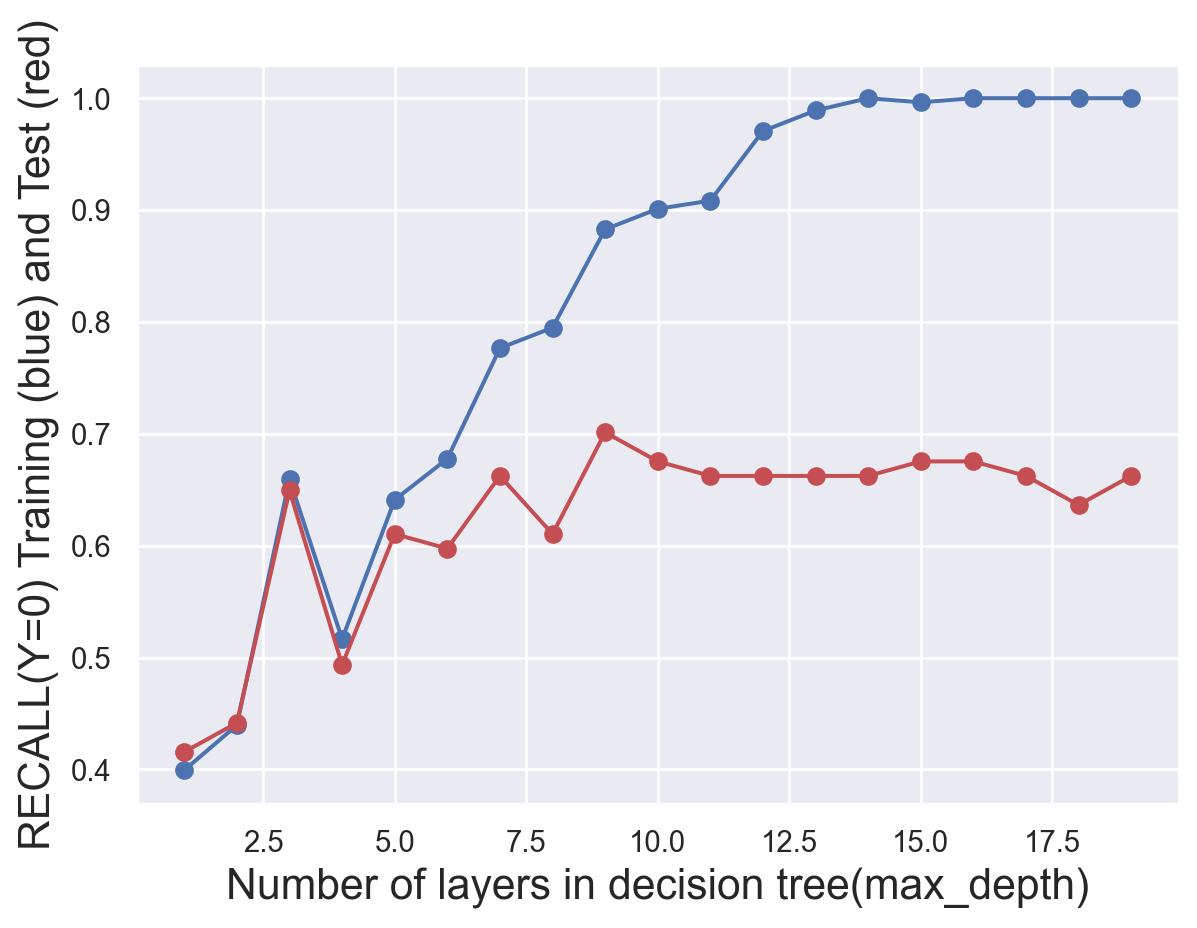
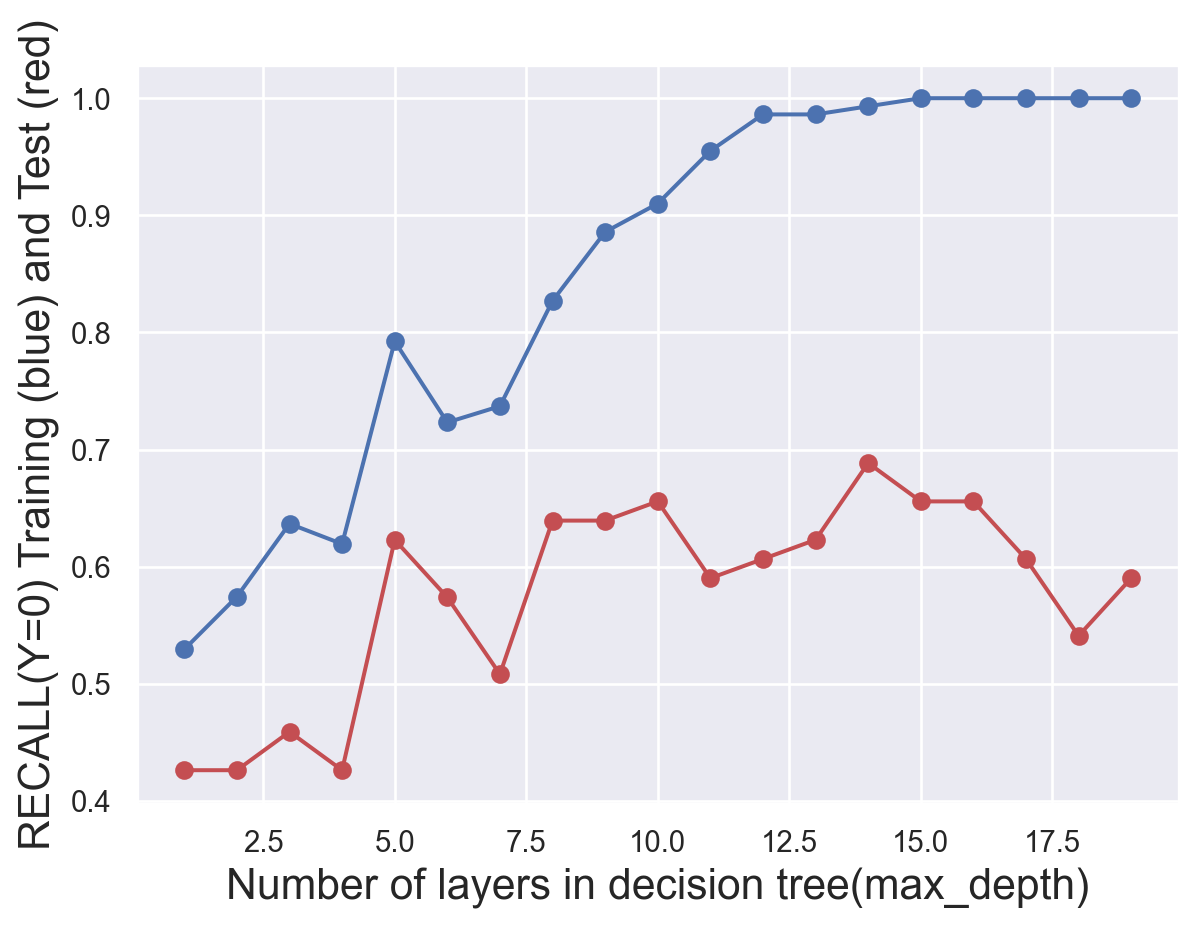
GITHUB-UPLOAD:DATE-2022-12-04-TIME-19-55-02

diff --git a/codes/05-decision-tree/_site/decision_tree.html b/codes/05-decision-tree/_site/decision_tree.html
@@ -126,9 +126,9 @@ code span.wa { color: #60a0b0; font-weight: bold; font-style: italic; } /* Warni
 
     
 
-    <title>Yifan Bian 501 Project Data Gathering</title>
+    <title>DT_header</title>
     <style>
-      .child-top { background-image: url('https://www.georgetown.edu/wp-content/uploads/2019/09/20150324-Campus_0006-2-2000x1125-c--dark-default.jpg');height: 230px;margin: 0%;display: flex;flex-direction: row;justify-content:space-between;border-top: grey 3px solid;} 
+      .child-top { background-image: url('https://www.georgetown.edu/wp-content/uploads/2019/09/20150324-Campus_0006-2-2000x1125-c--dark-default.jpg');padding-top:10px;padding-right: 18px;height: 240px;margin: 0%;display: flex;flex-direction: row;justify-content:space-between;border-top: grey 3px solid;} 
       .blank{height:80px}
       .position{display:flex; flex-direction: row;justify-content:center;}
       .bayes_box1{display:flex; flex-direction: row;justify-content:center;}
@@ -156,20 +156,20 @@ code span.wa { color: #60a0b0; font-weight: bold; font-style: italic; } /* Warni
     
     <div class="subtitle">
       <div style="height:60px"></div>
-      <p style="font-size:70px ;color:#d6d3c9;padding-left: 80px;border-right: 6px solid #d6d3c9 ;padding-right: 30px;">
+      <p style="font-size:70px ;color:#d6d3c9;padding-left: 80px;border-right: 6px solid #d6d3c9 ;padding-right: 30px;margin-top: -13px;">
         Decision Tree
       </p>
     </div>
 
    <div class="last-word" style="padding-right:80px ;padding-top: 10px;">
-      <h1 style="color: #d6d3c9;text-align:right;">
-        Anly-501 Project 
+      <h1 style="padding-left: 5px;color: #d6d3c9;text-align:right;font-size: 32px;font-family: 'Times New Roman', Times, serif;font-weight: bold;">
+        Rumor &amp; Susceptible User Detection
       </h1>
-      <p style="color:grey;margin-top: -15px;text-align:right;">
-        A full data science life cycle.
+      <p style="color:grey;margin-top: -15px;text-align:right;font-size: 15px;margin-bottom: 10px;">
+        Georgetown University DSAN Anly-501 Project 
       </p>
-      <p style="color:whitesmoke; font-weight:200; font-size: 16px;text-align:right">
-        © 2022 Yifan Bian 501 Project, powered by GU domain
+      <p style="color:whitesmoke; font-weight:200; font-size: 16px;text-align:right;font-style: oblique;margin-top: 0px;">
+        A full data science life cycle
        </p>
 
     </div>
@@ -200,7 +200,7 @@ code span.wa { color: #60a0b0; font-weight: bold; font-style: italic; } /* Warni
           <div class="collapse navbar-collapse" id="navbarCollapse">
             <ul class="navbar-nav navbar-nav-scroll me-auto">
   <li class="nav-item">
-    <a class="nav-link" href="https://gpa4.georgetown.domains/501-project-website/main_page.html">Home</a>
+    <a class="nav-link" href="https://gpa4.georgetown.domains/501-project-website/about.html">About</a>
   </li>  
   <li class="nav-item">
     <a class="nav-link" href="https://github.com/anly501/anly-501-project-FlynnFlag/tree/main/codes">Code</a>
@@ -233,10 +233,10 @@ code span.wa { color: #60a0b0; font-weight: bold; font-style: italic; } /* Warni
     <a class="nav-link" href="https://flynnflag.quarto.pub/07-clustering/clustering.html">Cluster</a>
   </li>  
   <li class="nav-item">
-    <a class="nav-link active" href="./decision_tree.html" aria-current="page">ARM and Networking</a>
+    <a class="nav-link" href="https://flynnflag.quarto.pub/08-arm/ARM.html">ARM and Networking</a>
   </li>  
   <li class="nav-item">
-    <a class="nav-link" href="./decision_tree.html">Conclusion</a>
+    <a class="nav-link" href="https://gpa4.georgetown.domains/501-project-website/conclusion.html">Conclusion</a>
   </li>  
 </ul>
               <div id="quarto-search" class="" title="Search"></div>
@@ -253,13 +253,18 @@ code span.wa { color: #60a0b0; font-weight: bold; font-style: italic; } /* Warni
     <h2 id="toc-title">On this page</h2>
    
   <ul>
-  <li><a href="#method" id="toc-method" class="nav-link active" data-scroll-target="#method">Method</a></li>
+  <li><a href="#introduction" id="toc-introduction" class="nav-link active" data-scroll-target="#introduction">Introduction</a></li>
+  <li><a href="#theory" id="toc-theory" class="nav-link" data-scroll-target="#theory">Theory</a></li>
+  <li><a href="#method" id="toc-method" class="nav-link" data-scroll-target="#method">Method</a>
+  <ul class="collapse">
   <li><a href="#class-distribution" id="toc-class-distribution" class="nav-link" data-scroll-target="#class-distribution">Class Distribution</a></li>
   <li><a href="#baseline-model-for-comparsion" id="toc-baseline-model-for-comparsion" class="nav-link" data-scroll-target="#baseline-model-for-comparsion">Baseline Model for Comparsion</a></li>
-  <li><a href="#feature-selection" id="toc-feature-selection" class="nav-link" data-scroll-target="#feature-selection">Feature Selection</a></li>
+  <li><a href="#data-selection" id="toc-data-selection" class="nav-link" data-scroll-target="#data-selection">Data Selection</a></li>
   <li><a href="#model-tuning" id="toc-model-tuning" class="nav-link" data-scroll-target="#model-tuning">Model tuning</a></li>
+  </ul></li>
   <li><a href="#final-results" id="toc-final-results" class="nav-link" data-scroll-target="#final-results">Final Results</a></li>
   <li><a href="#conclusion" id="toc-conclusion" class="nav-link" data-scroll-target="#conclusion">Conclusion</a></li>
+  <li><a href="#reference" id="toc-reference" class="nav-link" data-scroll-target="#reference">Reference</a></li>
   </ul>
 </nav>
     </div>
@@ -268,13 +273,13 @@ code span.wa { color: #60a0b0; font-weight: bold; font-style: italic; } /* Warni
 
 
 
-<section id="method" class="level2">
-<h2 class="anchored" data-anchor-id="method">Method</h2>
-In this tab, a classification method called <strong><em>Decision Tree</em></strong> is used. This method continuouslly asks “whether or not questions” to the input so that it can gradually divides it into different parts. <br><br> <img src="tree.png" class="img-fluid">
-<center>
-<em>(Example of the process of decision tree)</em> <a href="https://www.ibm.com/topics/decision-trees"><code>reference</code></a>
-</center>
-<p><br><br> But how to decide what to ask? The trick here is to use mathematical formulas to quantify one of the following metrics to find the question.</p>
+<section id="introduction" class="level2">
+<h2 class="anchored" data-anchor-id="introduction">Introduction</h2>
+<p>In this tab, a classification method called <strong><em>Decision Tree</em></strong> is used to build <strong><em>Susceptible User Detection</em></strong>. We will use “cleaned_followers.csv”.</p>
+</section>
+<section id="theory" class="level2">
+<h2 class="anchored" data-anchor-id="theory">Theory</h2>
+<p>Decision Tree continuouslly asks “whether or not questions” to the input so that it can gradually divides it into different parts. <br><br> <img src="tree.png" class="img-fluid"> <br><br> But how to decide what to ask? The trick here is to use mathematical formulas to quantify one of the following metrics to find the question.</p>
 <blockquote class="blockquote">
 <ul>
 <li>The extent to which we gain new information from new answers (by calculating entropy)</li>
@@ -282,16 +287,13 @@ In this tab, a classification method called <strong><em>Decision Tree</em></stro
 </ul>
 </blockquote>
 <p>By using this method, we can easily find how important an attribute is, and understand what makes our research target so different.</p>
-<p>Now we are going to apply this method to our data to achieve one of our goals:</p>
-<hr>
-<center>
-<strong>Distinguish users who are more likely to be influenced by rumor with other users.</strong>
-</center>
-<hr>
 <p><br><br></p>
 </section>
-<section id="class-distribution" class="level2">
-<h2 class="anchored" data-anchor-id="class-distribution">Class Distribution</h2>
+<section id="method" class="level2">
+<h2 class="anchored" data-anchor-id="method">Method</h2>
+<p>This part will show the workflow of training the optimal models with SVM.</p>
+<section id="class-distribution" class="level3">
+<h3 class="anchored" data-anchor-id="class-distribution">Class Distribution</h3>
 <div class="cell" data-execution_count="1">
 <details>
 <summary>Code</summary>
@@ -318,7 +320,7 @@ In this tab, a classification method called <strong><em>Decision Tree</em></stro
 <span id="cb1-21"><a href="#cb1-21" aria-hidden="true" tabindex="-1"></a><span class="co">#show the data</span></span>
 <span id="cb1-22"><a href="#cb1-22" aria-hidden="true" tabindex="-1"></a>df.head()</span></code><button title="Copy to Clipboard" class="code-copy-button"><i class="bi"></i></button></pre></div>
 </details>
-<div class="cell-output cell-output-display" data-execution_count="51">
+<div class="cell-output cell-output-display" data-execution_count="1">
 
 <div>
 
@@ -415,8 +417,8 @@ In this tab, a classification method called <strong><em>Decision Tree</em></stro
 <p>The count of two classes are the same, 350 for each. This is dsigned when gathering the data(“details of followers”). With this kind of data, we can avoid problems brought from imbalanced data sets.</p>
 <p><br><br></p>
 </section>
-<section id="baseline-model-for-comparsion" class="level2">
-<h2 class="anchored" data-anchor-id="baseline-model-for-comparsion">Baseline Model for Comparsion</h2>
+<section id="baseline-model-for-comparsion" class="level3">
+<h3 class="anchored" data-anchor-id="baseline-model-for-comparsion">Baseline Model for Comparsion</h3>
 <div class="cell" data-execution_count="2">
 <details>
 <summary>Code</summary>
@@ -434,14 +436,14 @@ In this tab, a classification method called <strong><em>Decision Tree</em></stro
 </details>
 <div class="cell-output cell-output-stdout">
 <pre><code>-----RANDOM CLASSIFIER-----
-accuracy 0.5114285714285715
-percision, recall, fscore, (array([0.51212121, 0.51081081]), array([0.48285714, 0.54      ]), array([0.49705882, 0.525     ]), array([350, 350], dtype=int64))</code></pre>
+accuracy 0.5
+percision, recall, fscore, (array([0.5, 0.5]), array([0.50857143, 0.49142857]), array([0.50424929, 0.49567723]), array([350, 350], dtype=int64))</code></pre>
 </div>
 </div>
 <p><br><br> What a baseline model here did is guess the class. And we can see that every metric is around 50%. So if a model perform than this baseline, than we can say it do make some sense.</p>
 </section>
-<section id="feature-selection" class="level2">
-<h2 class="anchored" data-anchor-id="feature-selection">Feature Selection</h2>
+<section id="data-selection" class="level3">
+<h3 class="anchored" data-anchor-id="data-selection">Data Selection</h3>
 <div class="cell" data-execution_count="3">
 <details>
 <summary>Code</summary>
@@ -452,7 +454,7 @@ percision, recall, fscore, (array([0.51212121, 0.51081081]), array([0.48285714, 
 <span id="cb4-5"><a href="#cb4-5" aria-hidden="true" tabindex="-1"></a><span class="co">#</span></span>
 <span id="cb4-6"><a href="#cb4-6" aria-hidden="true" tabindex="-1"></a>X<span class="op">=</span>df.drop(columns<span class="op">=</span>[<span class="st">"label"</span>],axis<span class="op">=</span><span class="dv">1</span>)</span>
 <span id="cb4-7"><a href="#cb4-7" aria-hidden="true" tabindex="-1"></a>y<span class="op">=</span>df[<span class="st">"label"</span>]</span>
-<span id="cb4-8"><a href="#cb4-8" aria-hidden="true" tabindex="-1"></a>x_train,x_test,y_train,y_test<span class="op">=</span>train_test_split(X,y,test_size<span class="op">=</span><span class="fl">0.2</span>)</span></code><button title="Copy to Clipboard" class="code-copy-button"><i class="bi"></i></button></pre></div>
+<span id="cb4-8"><a href="#cb4-8" aria-hidden="true" tabindex="-1"></a>x_train,x_test,y_train,y_test<span class="op">=</span>train_test_split(X,y,test_size<span class="op">=</span><span class="fl">0.2</span>,random_state<span class="op">=</span><span class="dv">42</span>)</span></code><button title="Copy to Clipboard" class="code-copy-button"><i class="bi"></i></button></pre></div>
 </details>
 </div>
 <table class="table">
@@ -506,8 +508,8 @@ percision, recall, fscore, (array([0.51212121, 0.51081081]), array([0.48285714, 
 </center>
 <p>8 features was selected to train the model. These features are all attributes that are allowed to get and reflect the character of accounts. With these attributes, we have the biggest possibility to find the differences. Note that “user_id” is also selected because it reflect how long an account was created. The bigger an user id is, the newer the account is. <br><br></p>
 </section>
-<section id="model-tuning" class="level2">
-<h2 class="anchored" data-anchor-id="model-tuning">Model tuning</h2>
+<section id="model-tuning" class="level3">
+<h3 class="anchored" data-anchor-id="model-tuning">Model tuning</h3>
 <div class="cell" data-execution_count="4">
 <details>
 <summary>Code</summary>
@@ -539,7 +541,7 @@ percision, recall, fscore, (array([0.51212121, 0.51081081]), array([0.48285714, 
 <span id="cb5-26"><a href="#cb5-26" aria-hidden="true" tabindex="-1"></a>metric_plot(<span class="st">"RECALL(Y=1)"</span>,test_results[:,<span class="dv">0</span>],train_results[:,<span class="dv">3</span>],test_results[:,<span class="dv">3</span>])</span></code><button title="Copy to Clipboard" class="code-copy-button"><i class="bi"></i></button></pre></div>
 </details>
 <div class="cell-output cell-output-display">
-<p><img src="decision_tree_files/figure-html/cell-5-output-1.png" width="607" height="482"></p>
+<p><img src="decision_tree_files/figure-html/cell-5-output-1.png" width="599" height="482"></p>
 </div>
 <div class="cell-output cell-output-display">
 <p><img src="decision_tree_files/figure-html/cell-5-output-2.png" width="599" height="464"></p>
@@ -549,6 +551,7 @@ percision, recall, fscore, (array([0.51212121, 0.51081081]), array([0.48285714, 
 </div>
 </div>
 <p><br><br> To find the most suitable number of layers, several plots was produced. We finally find that we should set max_depth as 4.</p>
+</section>
 </section>
 <section id="final-results" class="level2">
 <h2 class="anchored" data-anchor-id="final-results">Final Results</h2>
@@ -595,11 +598,11 @@ percision, recall, fscore, (array([0.51212121, 0.51081081]), array([0.48285714, 
 <span id="cb6-38"><a href="#cb6-38" aria-hidden="true" tabindex="-1"></a>plot_tree(model,x_test,y_test)</span></code><button title="Copy to Clipboard" class="code-copy-button"><i class="bi"></i></button></pre></div>
 </details>
 <div class="cell-output cell-output-stdout">
-<pre><code>ACCURACY: 0.6714285714285714
-NEGATIVE RECALL (Y=0): 0.5064935064935064
-NEGATIVE PRECISION (Y=0): 0.8297872340425532
-POSITIVE RECALL (Y=1): 0.873015873015873
-POSITIVE PRECISION (Y=1): 0.5913978494623656
+<pre><code>ACCURACY: 0.6357142857142857
+NEGATIVE RECALL (Y=0): 0.4262295081967213
+NEGATIVE PRECISION (Y=0): 0.6190476190476191
+POSITIVE RECALL (Y=1): 0.7974683544303798
+POSITIVE PRECISION (Y=1): 0.6428571428571429
 </code></pre>
 </div>
 <div class="cell-output cell-output-display">
@@ -616,6 +619,10 @@ POSITIVE PRECISION (Y=1): 0.5913978494623656
 <h2 class="anchored" data-anchor-id="conclusion">Conclusion</h2>
 <p>The model is not bad. It can correctly distinguish most samples and the accuracy is about 70%. However, since our target is to find users easily be affected by rumors. A false positive is more acceptable than a false negative, which means it is more acceptable to warn a person not easily be affected than fail to notify a person who may trust a rumor and pass it along! So we can consider to apply this model.</p>
 <p>Decision tree is unstable, so we can still use bagging(random forest), boosting(xgboost, GDBT, lightBGM, etc) to fit the data in the future.</p>
+</section>
+<section id="reference" class="level2">
+<h2 class="anchored" data-anchor-id="reference">Reference</h2>
+<p>[1]What is a decision tree. IBM. (n.d.). Retrieved December 4, 2022, from https://www.ibm.com/topics/decision-trees</p>
 
 
 </section>

diff --git a/501-project-website/intro.html b/501-project-website/intro.html
@@ -109,18 +109,18 @@
     </div>
     <div class="question">
       <h1>
-        Why we need to combine these two models to prevent rumors from spreading?
-      </h1>
-      <p>
-        Essentially, this method pays attention to both disseminators and receivers, which means it is a double verification, making it more accurate.
-      </p>
-    </div>
-    <div class="question">
-      <h1>
         How these concepts are transformed to concrete practices? / How the project is designed? 
       </h1>
       <p>
         The rumor instances are tweets judged as "false" by a third party fact-check insitution "Reuters Fact Check". The truth instances are the tweets sent by verified insitutions like news agencies. Users who are more or not easily be affect by rumors are the followers of rumor sources and verified insitutions respectively. Rumor detection model is built based on rumor instances and truth instances. Susceptible user detection model is built based on two groups of followers.
+      </p>
+    </div>
+    <div class="question">
+      <h1>
+        Why we need to combine these two models to prevent rumors from spreading?
+      </h1>
+      <p>
+        Essentially, this method pays attention to both disseminators and receivers, which means it is a double verification, making it more accurate.
       </p>
     </div>
     <div class="question">

diff --git a/codes/05-decision-tree/decision_tree_header.html b/codes/05-decision-tree/decision_tree_header.html
@@ -33,13 +33,13 @@
     
     <div class = subtitle>
       <div style="height:60px"></div>
-      <p style="font-size:70px ;color:#d6d3c9;padding-left: 80px;border-right: 6px solid #d6d3c9 ;padding-right: 30px;">
-        SVM
+      <p style="font-size:70px ;color:#d6d3c9;padding-left: 80px;border-right: 6px solid #d6d3c9 ;padding-right: 30px;margin-top: -13px;">
+        Decision Tree
       </p>
     </div>
 
    <div class="last-word" style="padding-right:80px ;padding-top: 10px;">
-      <h1 style="color: #d6d3c9;text-align:right;font-size: 32px;font-family: 'Times New Roman', Times, serif;font-weight: bold;">
+      <h1 style="padding-left: 5px;color: #d6d3c9;text-align:right;font-size: 32px;font-family: 'Times New Roman', Times, serif;font-weight: bold;">
         Rumor & Susceptible User Detection
       </h1>
       <p style="color:grey;margin-top: -15px;text-align:right;font-size: 15px;margin-bottom: 10px;">

diff --git a/501-project-website/conclusion.html b/501-project-website/conclusion.html
@@ -75,7 +75,7 @@
           From the inspiration gained from EDA and ARM, we can conclude that: 
           </p>
           <p class="con_text" style="padding-top:5px;">
-          About the account sending rumors, most of them was followed by less than 40,000 people. They tend to describe it as political information organization, a combination of “family”,“life” and “freedom” tend to be the core value of them.
+          About the account sending rumors, most of them was followed by less than 40,000 people. They tend to describe it as political information organization, a combination of "family","life" and "freedom" tend to be the core value of them.
           </p>
           <p class="con_text" style="padding-top:5px;">
           About the rumors, the topics tend to be related to the hotspots. In genreal, they are more likely to be widely spread compared to truth.
